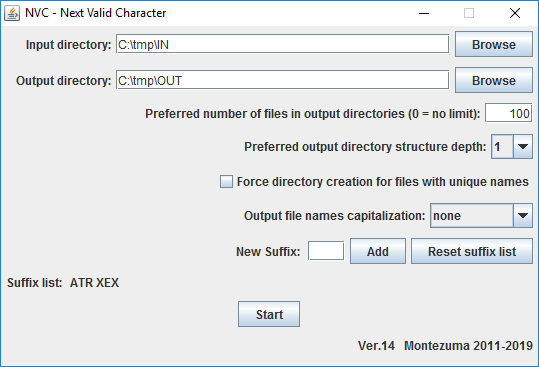
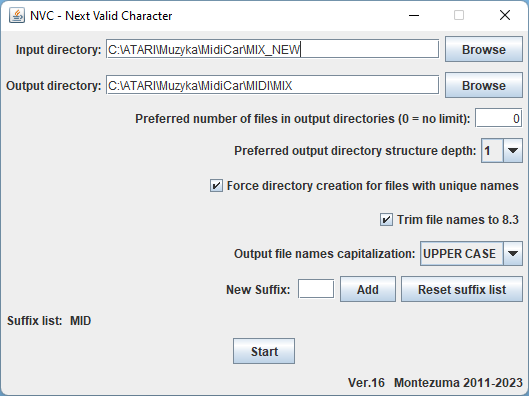
add option to trm file names to 8.3

diff --git a/src/org/montezuma/nvcgui/NVCMain.java b/src/org/montezuma/nvcgui/NVCMain.java
@@ -10,7 +10,7 @@ import java.io.*;
 
 public class NVCMain {
 	
-	final static int version = 15;
+	final static int version = 16;
 	byte[] BUFFER1 = new byte[0xFFFFF];
 	byte[] BUFFER2 = new byte[0xFFFFF];
 	
@@ -131,6 +131,18 @@ public class NVCMain {
 					// put all files which names don't start with a letter in the '#' directory 
 					output_path.append("/#");
 				}
+
+				if(op.short_file_names)
+				{
+					int liold = file_name.lastIndexOf('.');
+					String name = file_name.substring(0,liold);
+					String suffix = file_name.substring(liold+1);
+					name = name.replaceAll("[^a-zA-Z0-9]", "");
+					// the user knows what suffix he wants, so we only trim it
+					file_name = name.substring(0,Math.min(8,name.length())) 
+								+ "." 
+								+ suffix.substring(0,Math.min(3,suffix.length()));
+				}
 				
 				final int index_of_last_dot = file_name.lastIndexOf('.');
 				int max_val = Math.min(index_of_last_dot, op.level);
@@ -202,17 +214,15 @@ public class NVCMain {
 					int dup_counter_index = dup_counter;
 					if( 0 != BinFileCompare(input_file, output_file) )
 					{
+						// files with the same names have different content
 						create_file_with_NVCVER_suffix = true;
 					}
+					
+					// check if any existing file with the same name has identical content and if yes -> skip current file
 					while(dup_counter_index > 1)
 					{
-						int ind_tmp = file_name.lastIndexOf('.');
-						StringBuffer sb_tmp = new StringBuffer(output_file_path);
-						sb_tmp.append(file_name.substring(0,ind_tmp));
-						sb_tmp.append(" NVCVER");
-						sb_tmp.append(dup_counter_index);
-						sb_tmp.append(file_name.substring(ind_tmp));
-						output_file = new File( sb_tmp.toString() );
+						String n = generateFileName(output_file_path, file_name, dup_counter_index);
+						output_file = new File(n);
 						if( 0 == BinFileCompare(input_file, output_file) )
 						{
 							create_file_with_NVCVER_suffix = false;
@@ -220,15 +230,17 @@ public class NVCMain {
 						}
 						dup_counter_index--;
 					}
+					
 					if(create_file_with_NVCVER_suffix)
 					{
-						int ind_tmp = file_name.lastIndexOf('.');
-						StringBuffer sb_tmp = new StringBuffer(output_file_path);
-						sb_tmp.append(file_name.substring(0,ind_tmp));
-						sb_tmp.append(" NVCVER");
-						sb_tmp.append(++dup_counter);
-						sb_tmp.append(file_name.substring(ind_tmp));
-						output_file = new File( sb_tmp.toString() );
+						// generated file name may be identical to the name of an existing file :( 
+						do
+						{
+							String n = generateFileName(output_file_path, file_name, ++dup_counter);
+							output_file = new File(n);
+						}
+						while(output_file.exists());
+						
 						output_file.createNewFile();
 						BinFileCopy(input_file, output_file);
 					}
@@ -269,6 +281,26 @@ public class NVCMain {
 			System.err.println(line_separator+e);
 			System.exit(-1);
 		}
+	}
+	
+	private String generateFileName(String output_file_path, String file_name, int index)
+	{
+		int ind_tmp = file_name.lastIndexOf('.');
+		StringBuffer sb_tmp = new StringBuffer(output_file_path);
+		if(op.short_file_names)
+		{
+			String index_str = String.valueOf(index);
+			sb_tmp.append(file_name.substring(0,ind_tmp-index_str.length()));
+			sb_tmp.append(index_str);
+		}
+		else
+		{	
+			sb_tmp.append(file_name.substring(0,ind_tmp));
+			sb_tmp.append(" NVCVER");
+			sb_tmp.append(index);
+		}
+		sb_tmp.append(file_name.substring(ind_tmp));
+		return sb_tmp.toString();
 	}
 
 	private boolean isUnique(String prefix)

diff --git a/src/org/montezuma/nvcgui/NVCGui.java b/src/org/montezuma/nvcgui/NVCGui.java
@@ -24,6 +24,7 @@ public class NVCGui implements	Runnable,
 	private JPanel panelDirDepth;
 	private JPanel panelCapitalization;
 	private JPanel panelForceDir;
+	private JPanel panelShortFileNames;
 	private JPanel panelNewSuffix;
 	private JPanel panelSuffixes;
 	private JPanel panelStart;
@@ -41,6 +42,7 @@ public class NVCGui implements	Runnable,
 	private JButton reset_suffix_list;
 	private JButton start;
 	private JCheckBox force;
+	private JCheckBox short_file_names;
 	private ProgressMonitor progressMonitor;
 	private NVCWorker nvcworker;
 	
@@ -70,6 +72,7 @@ public class NVCGui implements	Runnable,
        panelDirDepth = new JPanel();
        panelCapitalization = new JPanel();
        panelForceDir = new JPanel();
+       panelShortFileNames = new JPanel();
        panelNewSuffix = new JPanel();
        panelSuffixes = new JPanel();
        panelStart = new JPanel();
@@ -171,6 +174,12 @@ public class NVCGui implements	Runnable,
 			nvc.op.force = (ItemEvent.SELECTED == e.getStateChange());
 		} } );
        
+       short_file_names = new JCheckBox("Trim file names to 8.3", nvc.op.short_file_names);
+       short_file_names.addItemListener(new ItemListener() {
+		public void itemStateChanged(ItemEvent e) {
+			nvc.op.short_file_names = (ItemEvent.SELECTED == e.getStateChange());
+		} } );
+       
        suffix = new JTextField(3);
        suffix.addActionListener(new ActionListener() {
 		
@@ -249,6 +258,7 @@ public class NVCGui implements	Runnable,
        ((FlowLayout)panelDirDepth.getLayout()).setAlignment(FlowLayout.TRAILING);
        ((FlowLayout)panelCapitalization.getLayout()).setAlignment(FlowLayout.TRAILING);
        ((FlowLayout)panelForceDir.getLayout()).setAlignment(FlowLayout.TRAILING);
+       ((FlowLayout)panelShortFileNames.getLayout()).setAlignment(FlowLayout.TRAILING);
        ((FlowLayout)panelNewSuffix.getLayout()).setAlignment(FlowLayout.TRAILING);
        ((FlowLayout)panelSuffixes.getLayout()).setAlignment(FlowLayout.LEADING);
        ((FlowLayout)panelNVCVersion.getLayout()).setAlignment(FlowLayout.TRAILING);
@@ -268,6 +278,7 @@ public class NVCGui implements	Runnable,
        panelCapitalization.add(new JLabel("Output file names capitalization:"));
        panelCapitalization.add(file_name_capitalization);
        panelForceDir.add(force);
+       panelShortFileNames.add(short_file_names);
        panelNewSuffix.add(new JLabel("New Suffix: "));
        panelNewSuffix.add(suffix);
        panelNewSuffix.add(add_new_suffix);
@@ -282,13 +293,14 @@ public class NVCGui implements	Runnable,
        suffix_list.setText(sb.toString());
        panelSuffixes.add(suffix_list);
        panelStart.add(start);
-       panelNVCVersion.add(new JLabel("Ver." + NVCMain.version + "   Montezuma 2011-2019"));
+       panelNVCVersion.add(new JLabel("Ver." + NVCMain.version + "   Montezuma 2011-2023"));
        
        frame.add(panelInDir);
        frame.add(panelOutDir);
        frame.add(panelFileCount);
        frame.add(panelDirDepth);
        frame.add(panelForceDir);
+       frame.add(panelShortFileNames);
        frame.add(panelCapitalization);
        frame.add(panelNewSuffix);
        frame.add(panelSuffixes);

diff --git a/src/org/montezuma/nvcgui/NVCPersistence.java b/src/org/montezuma/nvcgui/NVCPersistence.java
@@ -17,6 +17,7 @@ public class NVCPersistence {
 	private static final String FILECOUNT = "filecount";
 	private static final String LEVEL = "level";
 	private static final String FORCE = "force";
+	private static final String SHORT_FILE_NAMES = "short_file_names";
 	private static final String CAP = "capitalization";
 	private static final String SUFFIXES = "suffixes";
 	
@@ -39,6 +40,7 @@ public class NVCPersistence {
 			op.level = prefs.getInt(LEVEL, op.level);
 			op.capitalization = prefs.getInt(CAP, op.capitalization);
 			op.force = prefs.getBoolean(FORCE, op.force);
+			op.short_file_names = prefs.getBoolean(SHORT_FILE_NAMES, op.short_file_names);
 			byte[] bytes = prefs.getByteArray(SUFFIXES, null);
 			if (bytes != null)
 			{
@@ -70,6 +72,7 @@ public class NVCPersistence {
 			prefs.putInt(FILECOUNT, op.filecount);
 			prefs.putInt(LEVEL, op.level);
 			prefs.putBoolean(FORCE, op.force);
+			prefs.putBoolean(SHORT_FILE_NAMES, op.short_file_names);
 			prefs.putInt(CAP, op.capitalization);
 			try
 			{

diff --git a/src/org/montezuma/nvcgui/NVCOptions.java b/src/org/montezuma/nvcgui/NVCOptions.java
@@ -24,6 +24,9 @@ public class NVCOptions {
     @Option(name="-f",usage="force directory creation for files with unique names")
     public boolean force = false;
 
+    @Option(name="-s",usage="trim file names to 8.3")
+    public boolean short_file_names = false;
+    
     @Argument(usage="list of suffixes, for example: ATR XEX XFD", metaVar="suffix", required=true, multiValued=true)
     public List<String> suffixes = new ArrayList<String>();
 }

diff --git a/README.md b/README.md
@@ -41,6 +41,7 @@ Settings description:
 - Preferred number of files in output directories - if a non-zero value is entered, the tool will dynamically adjust the directory structure depth to fulfill this limit (in this case "preferred output directory structure depth" is used as a minimum depth)
 - Preferred output directory structure depth - this value has an influence on the number of directories created in the destination path for a given file. The bigger it is, the smaller is the number of files in the last directory, but also the path that we need to follow to a file is longer. The default value is 1. For bigger game collections you may try higher numbers.
 - Force directory creation at the specified depth - default is off. If we have a file with a unique beginning of the name (there is no other file, which name starts with the same letters), then we don't have to create directories for it. SIO2SD does not sort files and does not display directories at the front of the files (like PCs do). You may want to enable it if you use NVC to organize your games for usage with a PC (for example with RespeQt or with Atari Emulator).
+- Trim the file names to 8.3 format
 - Suffix list - NVC will copy only the files with suffixes specified here (lowercase / uppercase does not matter) 
 
 Upon clicking on the Start button, the tool searches the Input directory (and all its subdirectories) for files matching given suffixes. It maintains a list containing search results, which is sorted alphabetically after the search is done. NVC follows that list to copy files to the Output directory.
@@ -57,6 +58,7 @@ NVC can be started alternatively from a command line.
      -n FILECOUNT : number of files in output directories, default: 100 (0 = no limit)
      -l DEPTH  : output directory depth, default: 3
      -f        : force directory creation for files with unique names, default: false
+     -s        : trim file names to 8.3
      -c CAPITALIZATION : output file name capitalization: 0-none, 1-UPPER CASE, 2-lower case, 3-Capitalized
      suffix    : list of suffixes, example: atr com xex xfd
 
